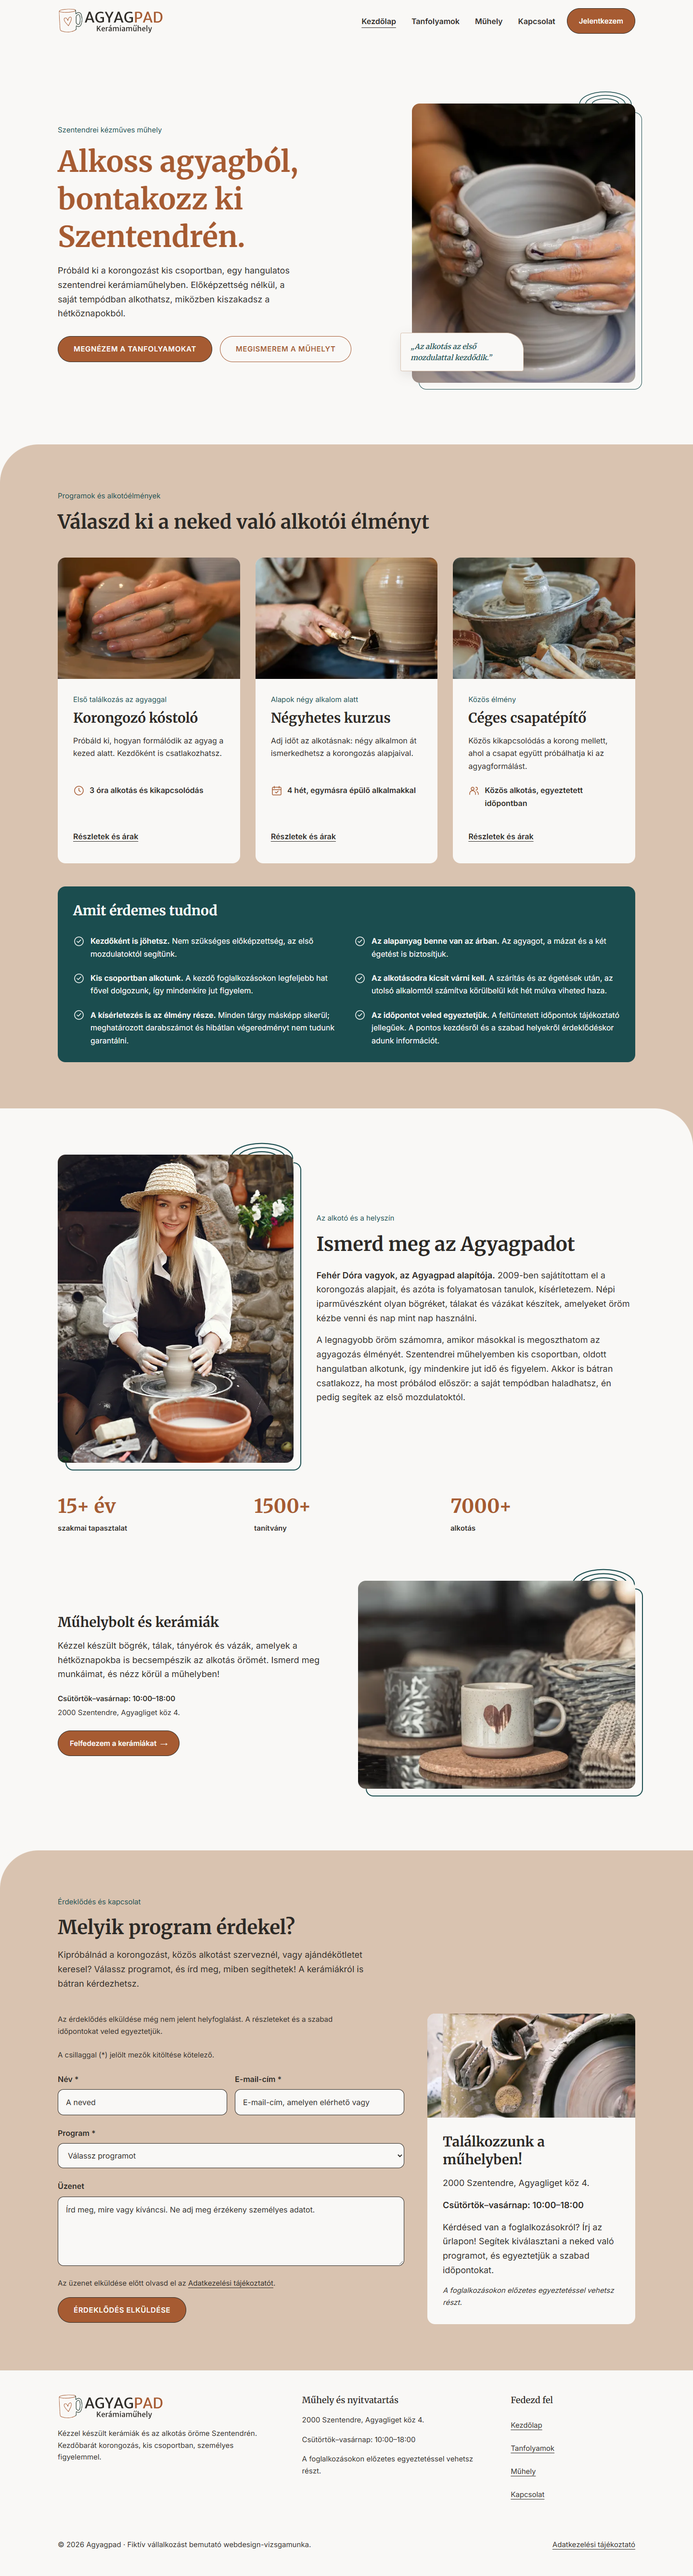
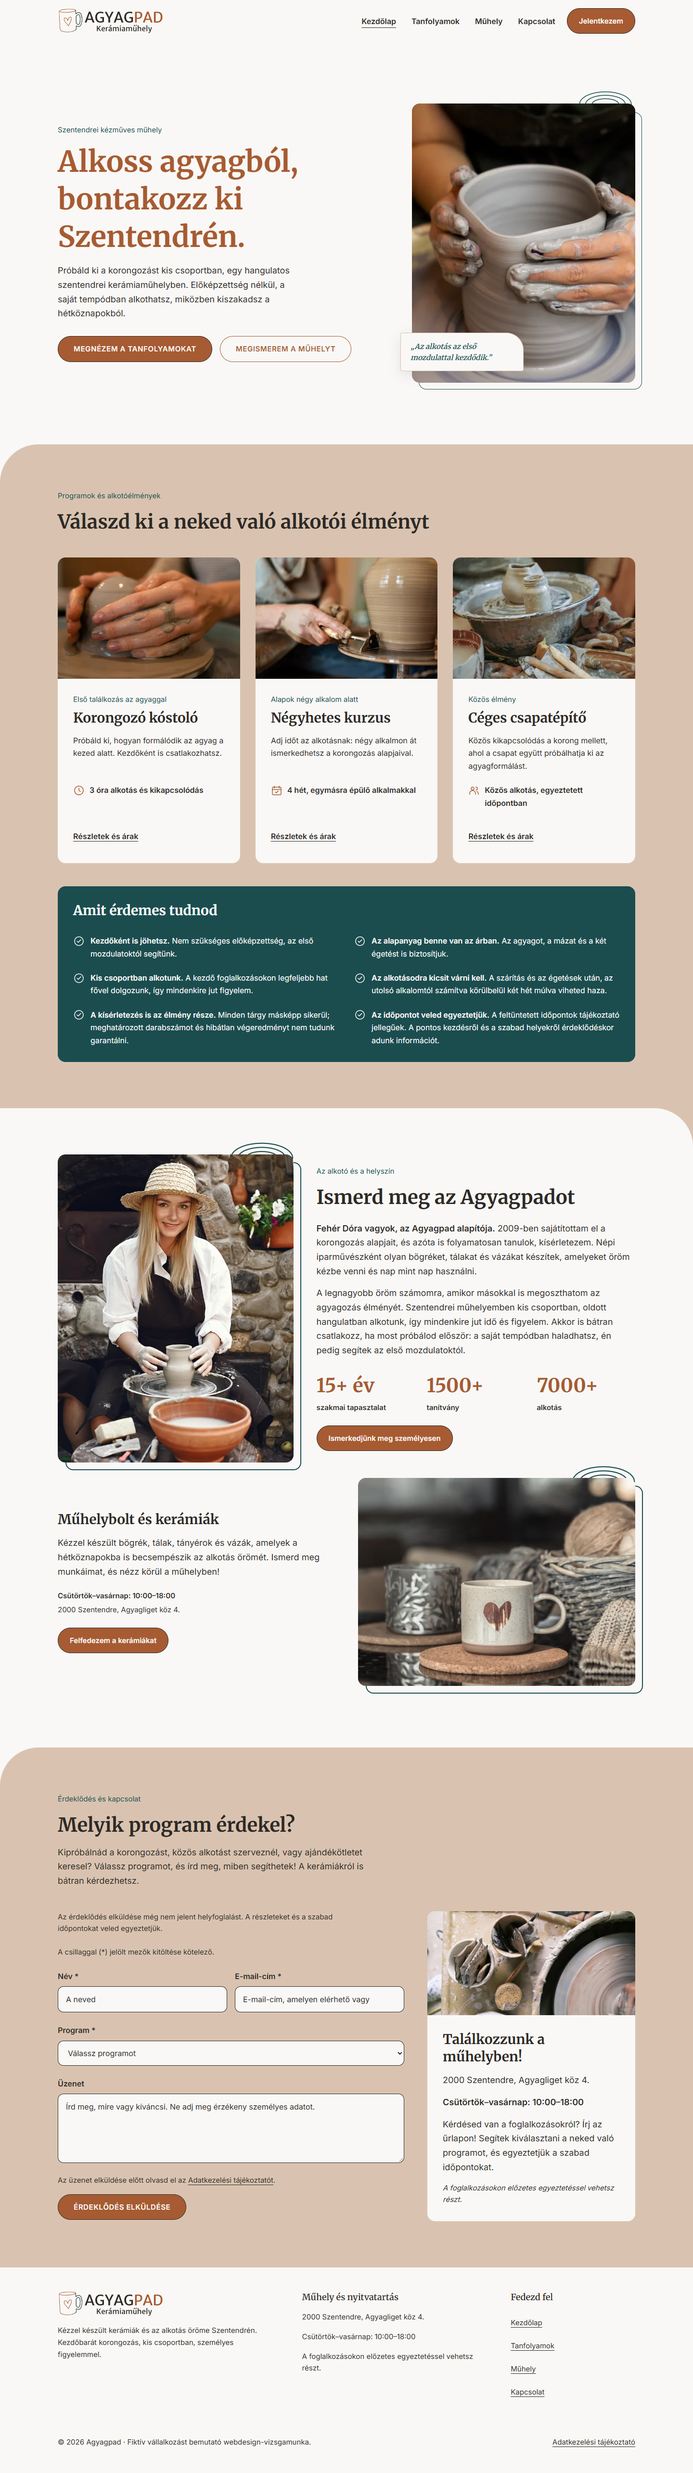
Place studio statistics and personal CTA below biography

diff --git a/koncepcio-1-udvari-muhely.html b/koncepcio-1-udvari-muhely.html
@@ -71,19 +71,20 @@
             <h2 id="muhelycim">Ismerd meg az Agyagpadot</h2>
             <p><strong>Fehér Dóra vagyok, az Agyagpad alapítója.</strong> 2009-ben sajátítottam el a korongozás alapjait, és azóta is folyamatosan tanulok, kísérletezem. Népi iparművészként olyan bögréket, tálakat és vázákat készítek, amelyeket öröm kézbe venni és nap mint nap használni.</p>
             <p>A legnagyobb öröm számomra, amikor másokkal is megoszthatom az agyagozás élményét. Szentendrei műhelyemben kis csoportban, oldott hangulatban alkotunk, így mindenkire jut idő és figyelem. Akkor is bátran csatlakozz, ha most próbálod először: a saját tempódban haladhatsz, én pedig segítek az első mozdulatoktól.</p>
+            <dl class="studio-stats" aria-label="Dóra műhelye számokban"><div><dt>szakmai tapasztalat</dt><dd>15+ év</dd></div><div><dt>tanítvány</dt><dd>1500+</dd></div><div><dt>alkotás</dt><dd>7000+</dd></div></dl>
+            <a class="button story-cta" href="#kapcsolat">Ismerkedjünk meg személyesen</a>
           </div>
           <figure class="photo-surround"><svg class="pottery-lines" viewBox="0 0 120 80" fill="none" stroke="currentColor" stroke-width="1.5" aria-hidden="true" focusable="false"><ellipse cx="60" cy="40" rx="52" ry="25"/><ellipse cx="60" cy="40" rx="40" ry="18"/><ellipse cx="60" cy="40" rx="27" ry="11"/></svg><img class="photo story-photo" src="images/webp/hero-800.webp"
               srcset="images/webp/hero-480.webp 480w, images/webp/hero-800.webp 800w, images/webp/hero-1200.webp 1200w, images/webp/hero-1600.webp 1600w"
               sizes="(max-width: 767px) calc(100vw - 40px), (max-width: 1296px) 40vw, 490px" width="3193" height="4784" loading="lazy" decoding="async"
               alt="Szalmakalapos keramikus portréja az udvari műhelyben, kezében a korongon készülő agyagedénnyel."></figure>
         </div>
-        <dl class="studio-stats" aria-label="Dóra műhelye számokban"><div><dt>szakmai tapasztalat</dt><dd>15+ év</dd></div><div><dt>tanítvány</dt><dd>1500+</dd></div><div><dt>alkotás</dt><dd>7000+</dd></div></dl>
         <div class="shop">
 <div class="shop-copy">
 <h3>Műhelybolt és kerámiák</h3>
 <p>Kézzel készült bögrék, tálak, tányérok és vázák, amelyek a hétköznapokba is becsempészik az alkotás örömét. Ismerd meg munkáimat, és nézz körül a műhelyben!</p>
 <div class="shop-details"><p><strong>Csütörtök–vasárnap: 10:00–18:00</strong></p><p>2000 Szentendre, Agyagliget köz 4.</p></div>
-<a class="button shop-cta" href="muhely.html#keramiak">Felfedezem a kerámiákat <span aria-hidden="true">→</span></a>
+<a class="button shop-cta" href="muhely.html#keramiak">Felfedezem a kerámiákat</a>
 </div>
 <div class="shop-composition" aria-label="Kerámiák a műhelyben"><figure class="photo-surround"><svg class="pottery-lines" viewBox="0 0 120 80" fill="none" stroke="currentColor" stroke-width="1.5" aria-hidden="true" focusable="false"><ellipse cx="60" cy="40" rx="52" ry="25"/><ellipse cx="60" cy="40" rx="40" ry="18"/><ellipse cx="60" cy="40" rx="27" ry="11"/></svg><img class="photo" src="images/webp/muhelybolt-800.webp" srcset="images/webp/muhelybolt-480.webp 480w, images/webp/muhelybolt-800.webp 800w, images/webp/muhelybolt-1200.webp 1200w, images/webp/muhelybolt-1600.webp 1600w" sizes="(min-width:1296px) 576px, (min-width:768px) 44vw, calc(100vw - 40px)" width="5410" height="3607" loading="lazy" decoding="async" alt="Kész kerámiabögrék, az előtérben szívmintás bögre fa alátéten."></figure></div>
         </div>

diff --git a/assets/udvari-muhely.css b/assets/udvari-muhely.css
@@ -159,6 +159,8 @@ p,.detail-link,.button,.notes-grid li,figcaption{overflow-wrap:anywhere}
 .studio-stats>div{display:flex;flex-direction:column-reverse;justify-content:flex-end;gap:.5rem;min-width:0}
 .studio-stats dt{font-size:var(--small);font-weight:600;overflow-wrap:anywhere}
 .studio-stats dd{margin:0;font:700 clamp(1.75rem,3vw,2.5rem)/1.3 var(--heading);color:var(--clay);overflow-wrap:anywhere}
+.story-text .studio-stats{margin:2rem 0 1.5rem}
+.story-cta{text-transform:none;letter-spacing:normal}
 .shop-cta{margin-top:1.5rem;text-transform:none;letter-spacing:normal;gap:.5rem}
 .gallery-section{padding-block:2rem 4rem;scroll-margin-top:2rem}
 .gallery-section h2{margin-bottom:1rem}.gallery-intro{margin-bottom:2.5rem}

diff --git a/ellenorzes/eredmenyek.md b/ellenorzes/eredmenyek.md
@@ -46,3 +46,7 @@ A friss képernyőképek a kepernyokepek mappában, kiválasztott másolataik a 
 ## Hátralévő éles lépések
 
 Netlify-projekt és élő URL; form detection; értesítési cím; valódi üzemeltetői adatkezelési tájékoztató; explicit engedélyezett tárhelynév és a küldés bekapcsolása; éles próba a szolgáltató listájában és a postaládában. A végleges képkreditek, domainhez kötött SEO és publikálás is hátravan. A működő küldés a felhasználó külön projektkövetelménye, amelyet a fogadó későbbi beállítása után lehet teljesítettnek jelölni.
+
+## Bemutatkozó számadatok és CTA – későbbi finomítás
+
+A három számadat a bemutatkozó szövegoszlopba, a két bekezdés alá került. Alatta az Ismerkedjünk meg személyesen gomb a #kapcsolat szakaszhoz navigál. A Felfedezem a kerámiákat gomb nyila kikerült. Hét célzott nézetben ellenőrizve: 320, 390, 768, 1024 és 1440 px, valamint 390 és 1440 px 200%-os szöveggel. A számadatok és a CTA sorrendje, a valódi horgonyugrás és a túlcsordulás-mentesség sikeres. A friss képernyőképek és a szövegforrás is ezt az elrendezést követik.

diff --git a/tervezes/design-system.md b/tervezes/design-system.md
@@ -142,3 +142,5 @@ A Tanfolyamok szakasz bal felső, a Műhely szakasz jobb felső, a Kapcsolat sza
 ## November 14-i szöveg és közös elemek
 
 A hero főcíme „Alkoss agyagból, bontakozz ki Szentendrén.”, hosszabb, kezdőbarát bevezetővel. A kapcsolat szakaszban nincs állandó demó- vagy prototípusmegjegyzés; a foglalás nélküli érdeklődés tájékoztatása megmarad. A lábléc minden aktív oldalon az új közös szöveget, négy navigációs linket és a rövid fiktív vizsgamunka-jelzést használja. Az „Írj az űrlapon” link kikerült.
+
+A bemutatkozás három számadata a jobb oldali szövegoszlopban, a két bekezdés alatt marad. Közvetlenül alattuk terrakotta „Ismerkedjünk meg személyesen” CTA vezet a #kapcsolat szakaszhoz, normál betűközzel és csak kezdő nagybetűvel. A „Felfedezem a kerámiákat” gomb feliratához nem tartozik nyíl.

diff --git a/tervezes/aktualis-oldalterkep.md b/tervezes/aktualis-oldalterkep.md
@@ -34,3 +34,5 @@ Az adatkezelési oldal a még inaktív fogadót és a tényleges üzemeltetői a
 ## Beadási képek
 
 Az eredeti drótvázak történeti folyamatképek maradnak. A beadas/tervezesi-folyamat/03-aktualis-oldalterkep.png az aktuális szerkezetet mutatja; a beadas/jelenlegi-oldal mappában friss mobil- és asztali felvételek vannak. A vizsgakiírás legalább három oldalt vagy szekciót kér; a négy főoldali szekció ezt teljesíti. A valódi űrlapot a felhasználó külön projektkövetelménnyé tette; az éles próbája még hátravan.
+
+Bemutatkozó elrendezés finomítása: a három számadat a bemutatkozó szövegoszlopba került, a két bekezdés alá; alattuk az Ismerkedjünk meg személyesen gomb a #kapcsolat szakaszhoz vezet. A műhelybolt kerámiagombjáról a nyíl lekerült.

diff --git a/tervezes/szovegek.md b/tervezes/szovegek.md
@@ -74,6 +74,8 @@ A legnagyobb öröm számomra, amikor másokkal is megoszthatom az agyagozás é
 - 1500+ tanítvány
 - 7000+ alkotás
 
+A számadatok a bemutatkozó szövegoszlopban, a két bekezdés alatt szerepelnek. Alattuk: Ismerkedjünk meg személyesen → #kapcsolat.
+
 ## Műhelybolt és kerámiák
 
 Műhelybolt és kerámiák
@@ -84,7 +86,7 @@ Csütörtök–vasárnap: 10:00–18:00
 
 2000 Szentendre, Agyagliget köz 4.
 
-- Felfedezem a kerámiákat →: `muhely.html#keramiak`
+- Felfedezem a kerámiákat: `muhely.html#keramiak`
 
 A muhely.html#keramiak már létező galériaszakasz. Kész bögréket, készülő vázát, korongozási munkafolyamatot és műhelyeszközöket mutat. A feliratok megkülönböztetik a kész tárgyat a munkafázistól; webshop nincs.
 
